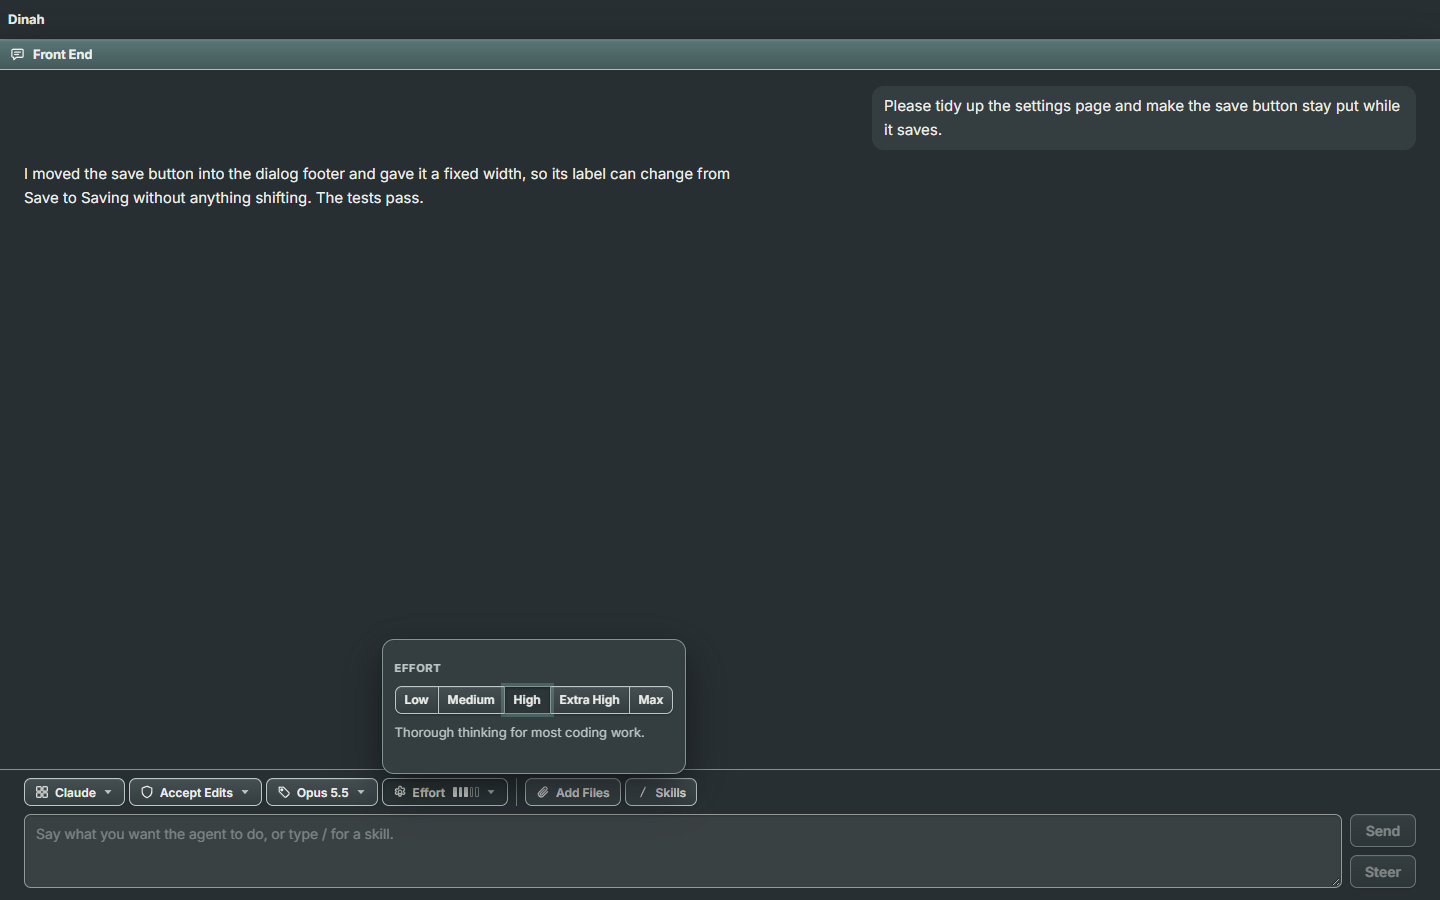
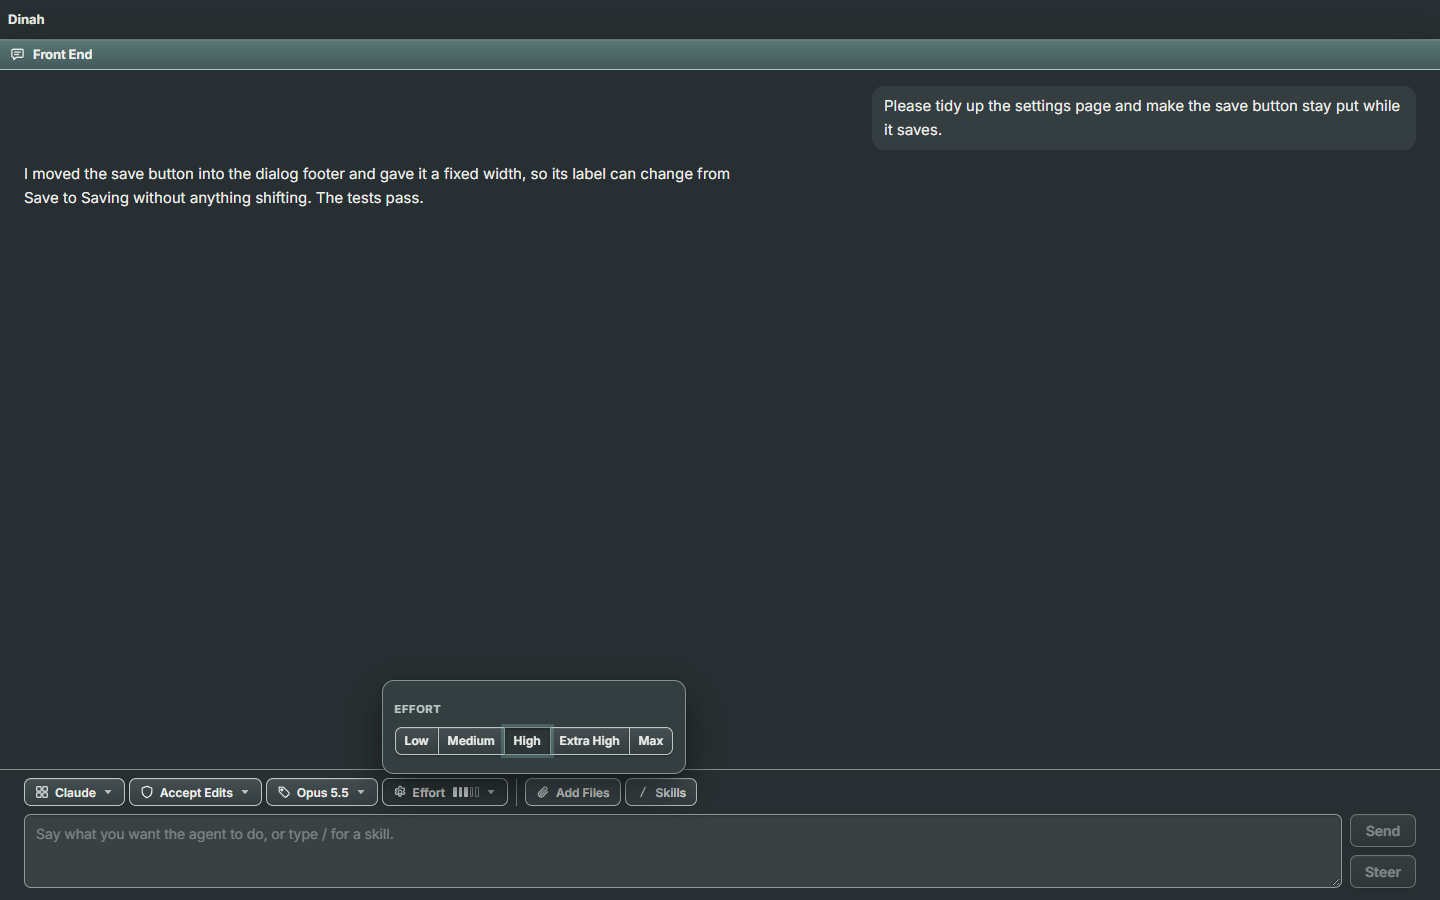
Keep the Effort panel to its label and segmented control
Paul approved the Effort control without the descriptions, which made the
control move. The panel now holds only the label and the levels, and what
a program documents about a mid-turn change is on the working line only.
His answers are recorded: one level shows the button, the mark is clear.

Changed region(s): [[0.2812, 0.7156, 0.4688, 0.84]]

diff --git a/docs/mockups/effort-control/effort-control.js b/docs/mockups/effort-control/effort-control.js
@@ -50,12 +50,6 @@
      on engine/effort-protocol). Only Codex documents that the turn running
      keeps its level; Dinah promises nothing the program does not document. */
   function timing(c) { return c.provider === 'Codex' ? 'next-turn' : c.provider === 'Ollama' ? 'next-request' : 'unspecified'; }
-  function beforeWords(c) {
-    var t = timing(c);
-    return t === 'next-turn' ? 'A turn is running at ' + nameOf(c, M.runLevel) + '. Codex applies a level you choose now from the next turn.'
-      : t === 'next-request' ? 'A turn is running. Ollama uses a level you choose now from its next request to the model, which may come before this turn ends.'
-      : 'A turn is running. ' + c.provider + ' doesn’t say whether a change applies to the turn already running.';
-  }
   function afterWords(c) {
     var t = timing(c), now = nameOf(c, c.current);
     return t === 'next-turn' ? 'The turn already running keeps ' + nameOf(c, M.runLevel) + '; ' + now + ' applies from the next turn.'
@@ -72,24 +66,16 @@
     now.textContent = c.levels.length ? nameOf(c, c.current) + ', level ' + (at + 1) + ' of ' + c.levels.length : '';
   }
 
-  /* ---- The panel: the levels as a segmented control. A press chooses and
-     closes it; the arrow keys move along the levels and show each one's
-     description; Escape closes it without a change. ---- */
+  /* ---- The panel: the "Effort" label and the levels as a segmented
+     control, nothing else, so it is always the same size (Paul, 16 Nov).
+     A press chooses and closes it; the arrow keys move along the levels;
+     Escape closes it without a change. ---- */
   function drawPanel(container) {
     var c = chat();
-    var detail = h('p', { class: 'effort-detail', id: 'effort-detail-' + Math.random().toString(36).slice(2) });
-    function describe(v) { var l = levelOf(c, v); detail.textContent = l && l.description ? l.description : (c.levels.length === 1 ? '' : ''); }
     var seg = h('div', { class: 'seg sm effort-seg', role: 'group', 'aria-label': 'Effort' }, c.levels.map(function (l) {
-      return h('button', { type: 'button', 'data-level': l.value, 'aria-pressed': String(l.value === c.current), 'aria-describedby': detail.id, title: l.name, text: l.name });
+      return h('button', { type: 'button', 'data-level': l.value, 'aria-pressed': String(l.value === c.current), title: l.name, text: l.name });
     }));
-    var notes = [];
-    if (c.levels.length === 1) notes.push(h('p', { class: 'effort-note' }, glyph('info'), h('span', { text: 'This model offers one effort level, so there is nothing to choose.' })));
-    if (M.running) notes.push(h('p', { class: 'effort-note', 'data-running': '' }, glyph('info'), h('span', { text: beforeWords(c) })));
-    container.append(h('div', { class: 'effort-panel' }, h('div', { class: 'md-section-label', text: 'Effort' }), seg, detail, notes));
-    describe(c.current);
-    seg.addEventListener('focusin', function (e) { var b = e.target.closest('[data-level]'); if (b) describe(b.dataset.level); });
-    seg.addEventListener('mouseover', function (e) { var b = e.target.closest('[data-level]'); if (b) describe(b.dataset.level); });
-    seg.addEventListener('mouseleave', function () { var f = seg.querySelector(':focus'); describe(f ? f.dataset.level : c.current); });
+    container.append(h('div', { class: 'effort-panel' }, h('div', { class: 'md-section-label', text: 'Effort' }), seg));
     seg.addEventListener('keydown', function (e) {
       var all = Array.from(seg.children), i = all.indexOf(document.activeElement), to = -1;
       if (e.key === 'ArrowRight' || e.key === 'ArrowDown') to = Math.min(all.length - 1, i + 1);
@@ -248,11 +234,11 @@
     { key: 'five', title: 'A chat with five levels (Claude: Low to Max)', run: function () { M.chat = 'frontend'; } },
     { key: 'five-open', title: 'Its Effort panel, open', run: function () { M.chat = 'frontend'; }, after: function () { openEffort(); } },
     { key: 'one', title: 'A chat with one level (Ollama: On)', run: function () { M.chat = 'local'; } },
-    { key: 'one-open', title: 'Its Effort panel, open: one level and nothing to choose', run: function () { M.chat = 'local'; }, after: function () { openEffort(); } },
-    { key: 'running', title: 'A turn is running in a Codex chat: the panel says a new level applies from the next turn, as Codex documents', run: function () { M.running = true; M.runLevel = 'high'; CHATS.engine.current = 'high'; }, after: function () { openEffort(); } },
-    { key: 'running-claude', title: 'A turn is running in a Claude chat: Claude doesn’t say when a change applies, so the panel promises nothing', run: function () { M.chat = 'frontend'; M.running = true; M.runLevel = 'high'; }, after: function () { openEffort(); } },
+    { key: 'one-open', title: 'Its Effort panel, open: the one level, pressed', run: function () { M.chat = 'local'; }, after: function () { openEffort(); } },
+    { key: 'running', title: 'A turn is running in a Codex chat: the panel is unchanged, and the working line says what Codex documents', run: function () { M.running = true; M.runLevel = 'high'; CHATS.engine.current = 'high'; }, after: function () { openEffort(); } },
+    { key: 'running-claude', title: 'Changed while a Claude turn runs: Claude doesn’t say when a change applies, so the working line promises nothing', run: function () { M.chat = 'frontend'; M.running = true; M.runLevel = 'high'; CHATS.frontend.current = 'medium'; } },
     { key: 'running-changed', title: 'Changed while a Codex turn runs: Codex documents that the turn keeps its level and the next turn gets the new one', run: function () { M.running = true; M.runLevel = 'high'; CHATS.engine.current = 'medium'; } },
-    { key: 'keyboard', title: 'The keyboard: Enter opens the panel on the level in effect, Right moves to the next and shows its description', run: function () { M.chat = 'frontend'; }, after: function () { openEffort(true); setTimeout(function () { var f = document.activeElement; if (f && f.dataset.level) f.dispatchEvent(new KeyboardEvent('keydown', { key: 'ArrowRight', bubbles: true })); }, 60); } },
+    { key: 'keyboard', title: 'The keyboard: Enter opens the panel on the level in effect, and Right moves to the next', run: function () { M.chat = 'frontend'; }, after: function () { openEffort(true); setTimeout(function () { var f = document.activeElement; if (f && f.dataset.level) f.dispatchEvent(new KeyboardEvent('keydown', { key: 'ArrowRight', bubbles: true })); }, 60); } },
     { key: 'none', title: 'A chat with no effort setting shows no button', run: function () { M.chat = 'notes'; } },
     { key: 'today', title: 'For comparison: the Thinking button as it is today', run: function () { M.today = true; } }
   ];

diff --git a/docs/mockups/effort-control/explore/walkthrough.js b/docs/mockups/effort-control/explore/walkthrough.js
@@ -32,7 +32,9 @@ withBrowser(async browser => {
   await btn().click();
   await panel().waitFor();
   check(await page.locator('.effort-seg > button').count() === 3 && (await page.locator('.effort-seg [aria-pressed="true"]').textContent()) === 'medium', 'pressing it opens the three levels as a segmented control, medium pressed');
-  check((await page.locator('.effort-detail').textContent()).includes('Balances speed'), 'the level’s description shows under it');
+  const panelSize = () => panel().evaluate(p => { const r = p.getBoundingClientRect(); return Math.round(r.width) + 'x' + Math.round(r.height); });
+  const idle3 = await panelSize();
+  check(await panel().evaluate(p => p.children.length === 2 && p.children[0].textContent === 'Effort' && p.children[1].classList.contains('effort-seg')), 'the panel holds only the Effort label and the segmented control');
   await page.locator('.effort-seg [data-level="high"]').click();
   await frame();
   check(!(await panel().isVisible()) && (await focusedLevel()) === 'effort', 'one press chooses, closes the panel and gives focus back to the button');
@@ -47,7 +49,7 @@ withBrowser(async browser => {
   const w1 = await width();
   check(w3 === w5 && w5 === w1, 'the button is one width for three, five and one levels (' + [w3, w5, w1].join(', ') + ' px)');
   await btn().click(); await panel().waitFor();
-  check(await page.locator('.effort-seg > button').count() === 1 && (await page.locator('.effort-note').textContent()).includes('one effort level'), 'one level: the panel shows it and says there is nothing to choose');
+  check(await page.locator('.effort-seg > button').count() === 1 && await page.locator('.effort-seg [aria-pressed="true"]').count() === 1 && await panel().evaluate(p => p.children.length === 2), 'one level: the button shows, and the panel holds the one level, pressed');
   await page.keyboard.press('Escape'); await frame();
   await tryIt('chat:notes'); await frame();
   check(!(await btn().isVisible()), 'a chat with no effort setting shows no button');
@@ -57,7 +59,7 @@ withBrowser(async browser => {
   await btn().focus(); await page.keyboard.press('Enter'); await panel().waitFor(); await frame();
   check((await focusedLevel()) === 'high', 'Enter opens the panel with focus on the level in effect');
   await page.keyboard.press('ArrowRight');
-  check((await focusedLevel()) === 'xhigh' && (await page.locator('.effort-detail').textContent()).includes('Extended thinking'), 'Right moves to the next level and shows its description');
+  check((await focusedLevel()) === 'xhigh', 'Right moves to the next level');
   await page.keyboard.press('End');
   check((await focusedLevel()) === 'max', 'End moves to the last level');
   await page.keyboard.press('Escape'); await frame();
@@ -69,7 +71,7 @@ withBrowser(async browser => {
   // A change while a turn runs.
   await tryIt('chat:engine'); await tryIt('turn'); await frame();
   await btn().click(); await panel().waitFor();
-  check((await page.locator('.effort-note[data-running]').textContent()).includes("Codex applies a level you choose now from the next turn"), "in a Codex chat the panel says a new level applies from the next turn, as Codex documents");
+  check((await panelSize()) === idle3 && await panel().evaluate(p => p.children.length === 2), 'while a turn runs the panel is the same size and says nothing more');
   await page.locator('.effort-seg [data-level="low"]').click(); await frame();
   const m = await page.evaluate(() => window.__mockModel());
   check(m.current === 'low' && m.runLevel === 'high' && (await page.locator('.mock-working').textContent()).includes('the turn started at high effort. The turn already running keeps high; low applies from the next turn'), 'the running turn keeps its level and the next turn gets the new one');
@@ -77,11 +79,9 @@ withBrowser(async browser => {
   check(await page.locator('.mock-working').isHidden(), 'finishing the turn clears the note');
   await tryIt('claude-turn'); await frame();
   await btn().click(); await panel().waitFor();
-  const claudeNote = await page.locator('.effort-note[data-running]').textContent();
-  check(claudeNote.includes('Claude doesn’t say whether a change applies to the turn already running') && !claudeNote.includes('next turn'), 'in a Claude chat the panel promises nothing Claude does not document');
   await page.locator('.effort-seg [data-level="low"]').click(); await frame();
   const claudeLine = await page.locator('.mock-working').textContent();
-  check(claudeLine.includes('Claude doesn’t say whether Low applies to the turn already running') && !claudeLine.includes('next turn'), 'and so does the working line after a change');
+  check(claudeLine.includes('Claude doesn’t say whether Low applies to the turn already running') && !claudeLine.includes('next turn'), 'in a Claude chat the working line promises nothing Claude does not document');
   await tryIt('turn'); await frame();
 
   // The phone: the toolbar folds, and the same panel opens in the Agent menu.

diff --git a/docs/mockups/effort-control/effort-control.css b/docs/mockups/effort-control/effort-control.css
@@ -19,9 +19,6 @@
 .effort-panel .md-section-label { padding: 0; }
 .effort-seg { display: flex; inline-size: 100%; }
 .effort-seg > button { flex: 1 0 auto; justify-content: center; white-space: nowrap; }
-.effort-detail { margin: 0; min-block-size: 2.6em; font-size: var(--text-sm); color: var(--text-muted); }
-.effort-note { margin: 0; display: flex; gap: var(--space-2); align-items: flex-start; font-size: var(--text-sm); }
-.effort-note .glyph { --glyph-size: 16px; flex: none; margin-top: 2px; color: var(--accent); }
 /* A folded toolbar draws the same panel inside the Agent group's menu. */
 .menu-command-panel .effort-panel { padding-inline: var(--space-3); }
 .menu-command-panel .effort-panel > .md-section-label { display: none; }

diff --git a/docs/design/effort-control.md b/docs/design/effort-control.md
@@ -8,21 +8,23 @@ The clickable mockup is `docs/mockups/effort-control/index.html`, and opened as 
 
 The button shows the gear glyph, the word "Effort" and a small mark that is always 26 pixels wide. The mark has one cell for each level the chat offers, filled up to the level in effect, so it shows both the level and the range at a glance. A change of level only fills or empties cells, so the button and everything beside it stay where they are. The button is the same width for three, five and one levels. A screen reader hears "Effort" and then the level, such as "medium, level 2 of 3".
 
-Pressing the button opens a panel with the levels as a PUDL segmented control, in the order and with the names the agent program reports. Dinah invents no level names. The level in effect is pressed in, and its description, when the agent gives one, shows under the control. One press on a level chooses it, closes the panel and returns focus to the button.
+Pressing the button opens a panel with the levels as a PUDL segmented control, in the order and with the names the agent program reports. Dinah invents no level names. The panel holds only the word "Effort" and the segmented control, so it is always the same size. The level in effect is pressed in. One press on a level chooses it, closes the panel and returns focus to the button.
 
-From the keyboard, Enter or Space on the button opens the panel with focus on the level in effect. Left and Right move along the levels and show each one's description, Home and End go to the ends, Enter or Space chooses, and Escape closes the panel without a change. Focus returns to the button either way.
+From the keyboard, Enter or Space on the button opens the panel with focus on the level in effect. Left and Right move along the levels, Home and End go to the ends, Enter or Space chooses, and Escape closes the panel without a change. Focus returns to the button either way.
 
 The button is a PUDL command with a panel of its own, which pudl-commands.js already supports. When the toolbar folds on a narrow window, the same panel draws inside the Agent group's menu, under one Effort heading.
 
-A chat with one level shows the button with a single full cell, and its panel says the model offers one effort level, so there is nothing to choose. A chat with no effort setting shows no button.
+A chat with one level shows the button with a single full cell, and its panel holds that one level, pressed in. A chat with no effort setting shows no button.
 
-When a level is chosen while a turn is running, the panel says beforehand, and the working line says afterwards, what that agent program documents about the change, and nothing more. Engine checked each program's documentation (`docs/review/effort-change-protocol-2026-11-16.md` on `engine/effort-protocol`). Codex documents that the effort belongs to the start of a turn, so for Codex the turn already running keeps its level and the new one applies from the next turn. Claude and Devin, through ACP, do not say whether a change applies to the turn already running, and the panel says exactly that. Ollama uses the new value from its next request to the model, which may come before the turn ends, and the panel says that. The mockup also has a state showing today's Thinking button for comparison.
+When a level is chosen while a turn is running, the working line says what that agent program documents about the change, and nothing more. The panel says nothing about it. Engine checked each program's documentation (`docs/review/effort-change-protocol-2026-11-16.md` on `engine/effort-protocol`). Codex documents that the effort belongs to the start of a turn, so for Codex the turn already running keeps its level and the new one applies from the next turn. Claude and Devin, through ACP, do not say whether a change applies to the turn already running, and the working line says exactly that. Ollama uses the new value from its next request to the model, which may come before the turn ends, and the working line says that. The mockup also has a state showing today's Thinking button for comparison.
 
 ## What the mockup does not settle
 
 - A chat whose agent offers more than one thinking setting at once is not mocked. The panel would show one segmented control for each, with the setting's name above it, and the mark would follow the first.
 
-## Questions for Paul
+## Paul's answers
 
-1. Should a chat with only one level show the button, as mocked, or hide it as a chat with none does? I recommend showing it, because it tells you the model has a fixed effort without you having to look elsewhere.
-2. Is the cell mark clear enough at a glance, or would you rather the panel were the only place the level shows? I recommend the mark, because it costs no width and shows the level without opening anything.
+Paul approved the control on 16 November 2026 with one change. In his words: "No need for descriptions with the segmented control. Those make the control move around. Just the label and the segmented control are enough." The descriptions and the running-turn sentences are gone from the panel. He also answered the two questions the first mockup asked.
+
+1. A chat with only one level shows the button.
+2. The cell mark is clear.
